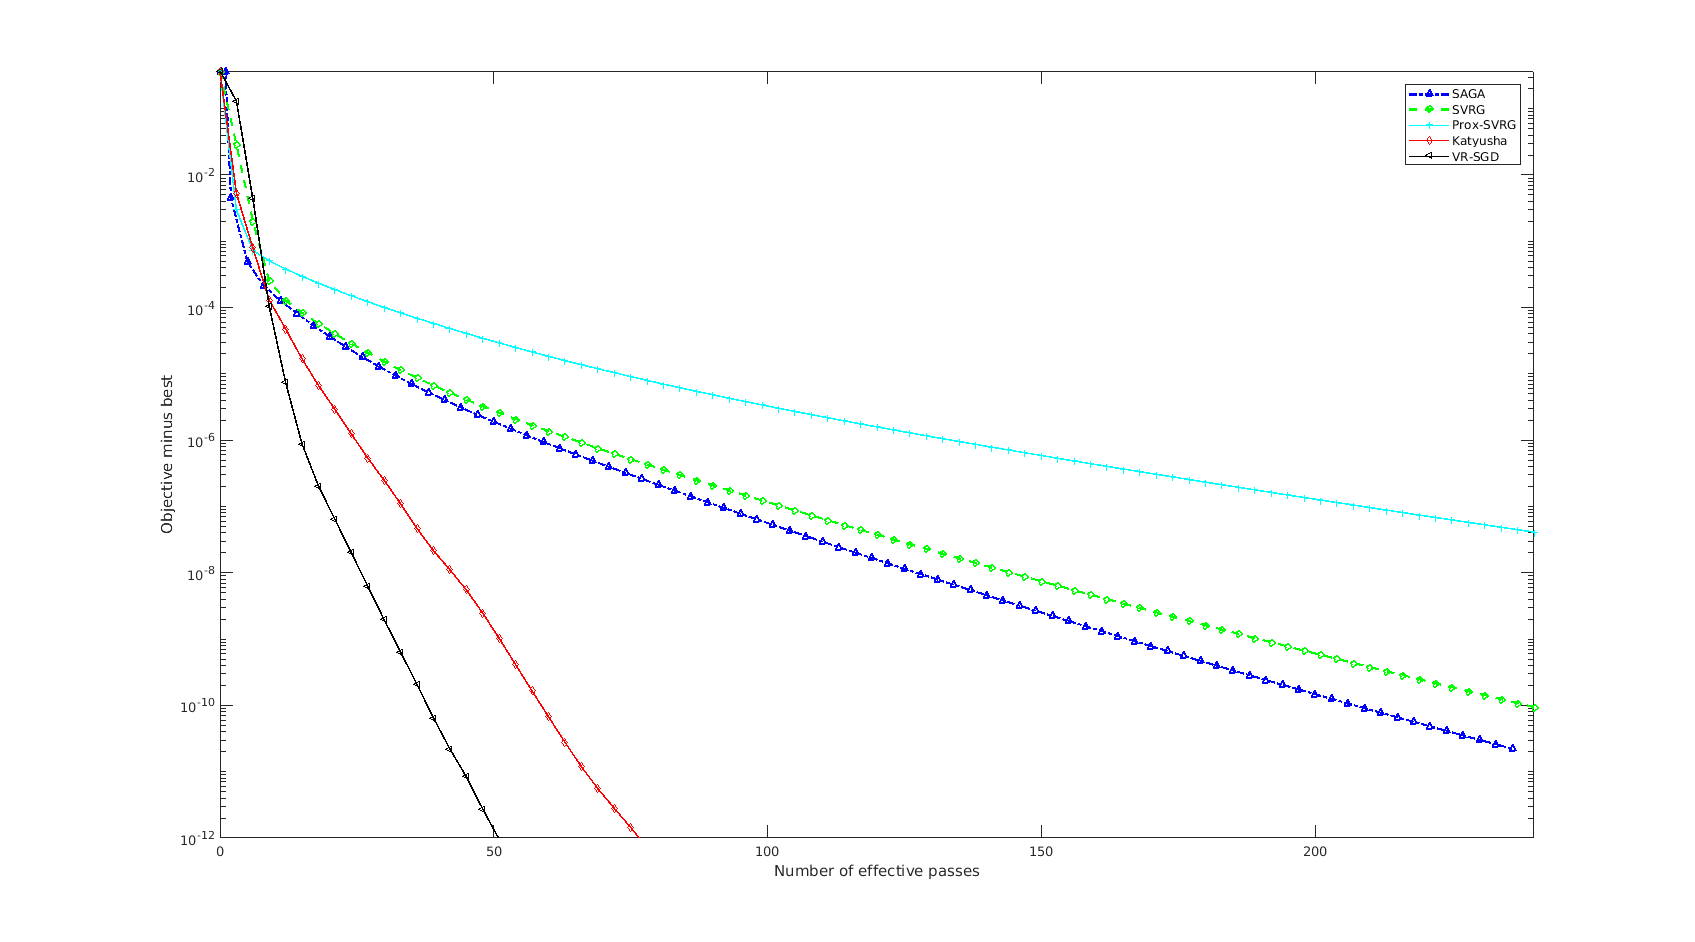
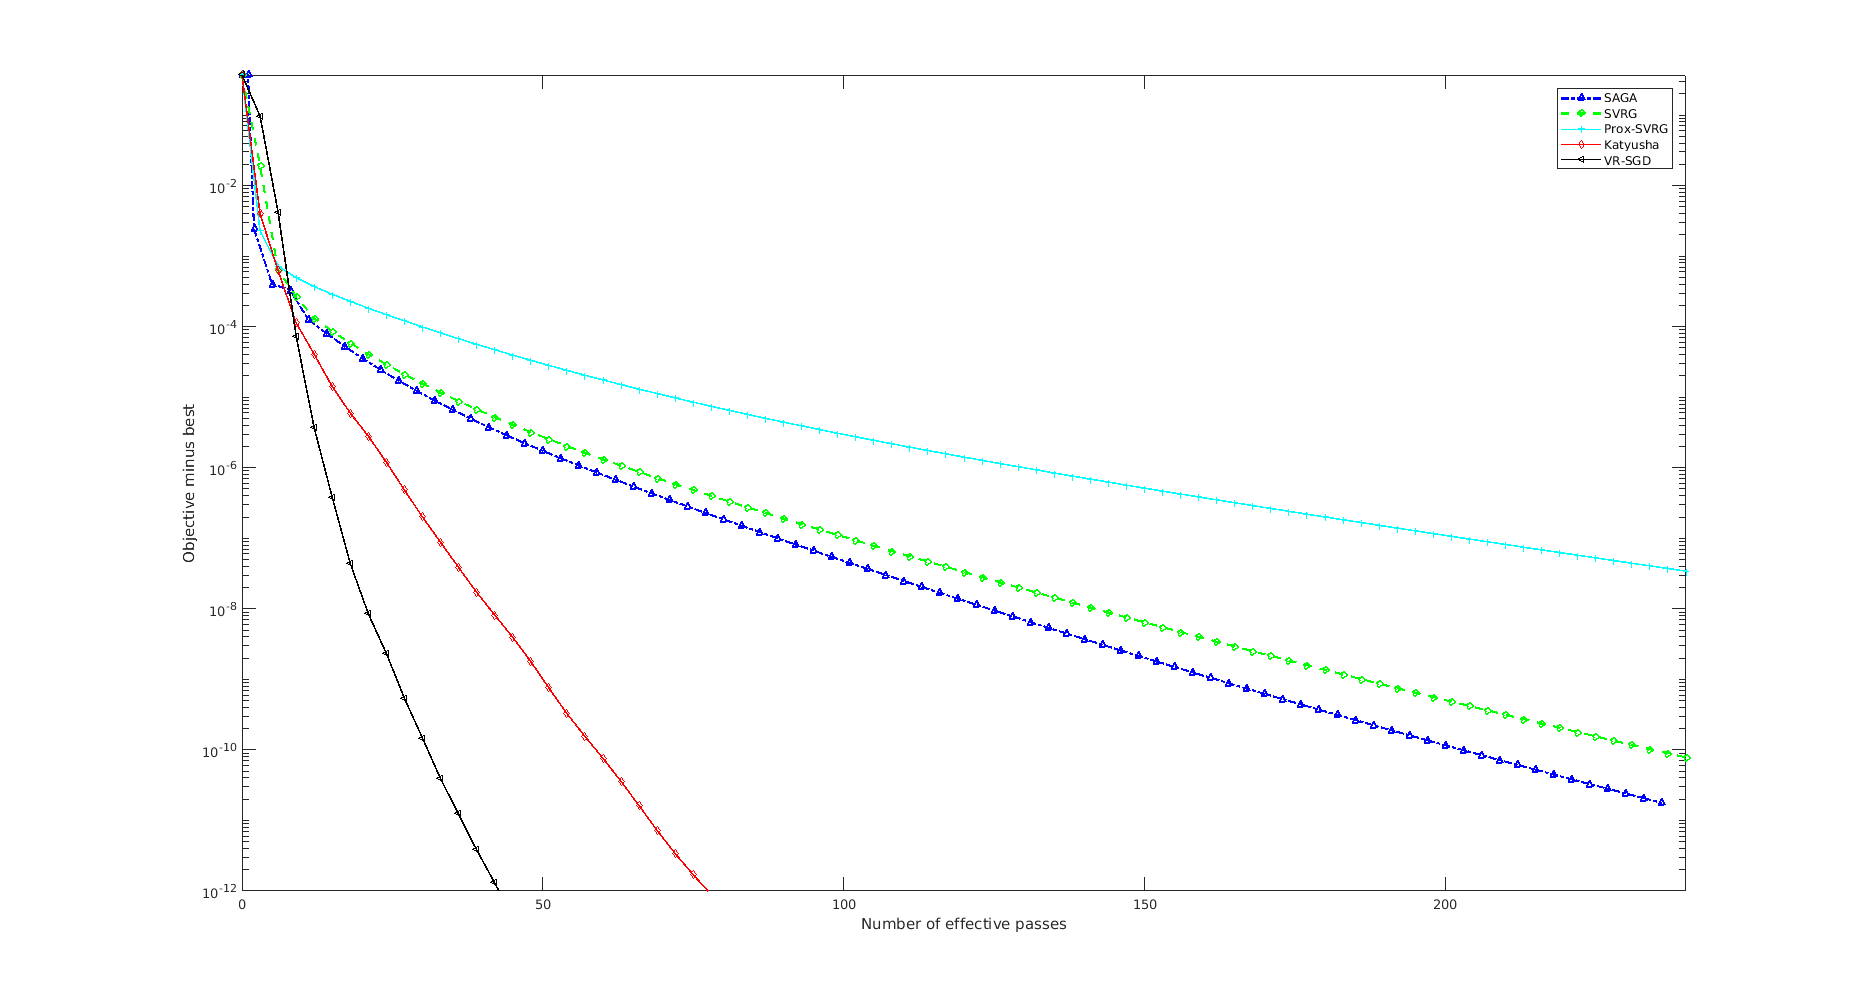
Fatal Bug Fixed.

diff --git a/grad_desc_sparse.cpp b/grad_desc_sparse.cpp
@@ -69,7 +69,6 @@ double* grad_desc_sparse::SGD(double* X, double* Y, size_t* Jc, size_t* Ir
     copy_vec(new_weights, model->get_model());
     for(size_t i = 0; i < iteration_no; i ++) {
         int rand_samp = distribution(generator);
-        double core = model->first_component_oracle_core_sparse(X, Y, Jc, Ir, N, rand_samp, new_weights);
         for(size_t j = Jc[rand_samp]; j < Jc[rand_samp + 1]; j ++) {
             size_t index = Ir[j];
             // lazy update.
@@ -77,6 +76,10 @@ double* grad_desc_sparse::SGD(double* X, double* Y, size_t* Jc, size_t* Ir
                 regularizer::proximal_operator(regular, new_weights[index], step_size, lambda
                     , i - (last_seen[index] + 1), false);
             }
+        }
+        double core = model->first_component_oracle_core_sparse(X, Y, Jc, Ir, N, rand_samp, new_weights);
+        for(size_t j = Jc[rand_samp]; j < Jc[rand_samp + 1]; j ++) {
+            size_t index = Ir[j];
             new_weights[index] -= step_size * core * X[j];
             regularizer::proximal_operator(regular, new_weights[index], step_size, lambda);
             last_seen[index] = i;
@@ -147,9 +150,6 @@ std::vector<double>* grad_desc_sparse::SAGA(double* X, double* Y, size_t* Jc, si
     size_t skip_pass = 0;
     for(size_t i = 0; i < iteration_no; i ++) {
         int rand_samp = distribution(generator);
-        double core = model->first_component_oracle_core_sparse(X, Y, Jc, Ir, N, rand_samp, new_weights);
-        double past_grad_core = grad_core_table[rand_samp];
-        grad_core_table[rand_samp] = core;
         for(size_t j = Jc[rand_samp]; j < Jc[rand_samp + 1]; j ++) {
             size_t index = Ir[j];
             // lazy update or lagged update in Schmidt et al.[2016]
@@ -157,6 +157,12 @@ std::vector<double>* grad_desc_sparse::SAGA(double* X, double* Y, size_t* Jc, si
                 regularizer::proximal_operator(regular, new_weights[index], step_size
                         , lambda, i - (last_seen[index] + 1), false, -step_size * aver_grad[index]);
             }
+        }
+        double core = model->first_component_oracle_core_sparse(X, Y, Jc, Ir, N, rand_samp, new_weights);
+        double past_grad_core = grad_core_table[rand_samp];
+        grad_core_table[rand_samp] = core;
+        for(size_t j = Jc[rand_samp]; j < Jc[rand_samp + 1]; j ++) {
+            size_t index = Ir[j];
             // Update Weight
             new_weights[index] -= step_size * ((core - past_grad_core)* X[j] + aver_grad[index]);
             // Update Gradient Table Average
@@ -252,11 +258,8 @@ std::vector<double>* grad_desc_sparse::Prox_SVRG(double* X, double* Y, size_t* J
         // INNER_LOOP
         for(size_t j = 0; j < inner_m; j ++) {
             int rand_samp = distribution(generator);
-            double inner_core = model->first_component_oracle_core_sparse(X, Y
-                        , Jc, Ir, N, rand_samp, inner_weights);
             for(size_t k = Jc[rand_samp]; k < Jc[rand_samp + 1]; k ++) {
                 size_t index = Ir[k];
-                double val = X[k];
                 // lazy update
                 if((int)j > last_seen[index] + 1) {
                     switch(Mode) {
@@ -274,6 +277,12 @@ std::vector<double>* grad_desc_sparse::Prox_SVRG(double* X, double* Y, size_t* J
                             break;
                     }
                 }
+            }
+            double inner_core = model->first_component_oracle_core_sparse(X, Y
+                                    , Jc, Ir, N, rand_samp, inner_weights);
+            for(size_t k = Jc[rand_samp]; k < Jc[rand_samp + 1]; k ++) {
+                size_t index = Ir[k];
+                double val = X[k];
                 double vr_sub_grad = (inner_core - full_grad_core[rand_samp]) * val + full_grad[index];
                 inner_weights[index] -= step_size * vr_sub_grad;
                 aver_weights[index] += regularizer::proximal_operator(regular, inner_weights[index]
@@ -391,11 +400,8 @@ std::vector<double>* grad_desc_sparse::SVRG(double* X, double* Y, size_t* Jc, si
             // INNER_LOOP
             for(size_t j = 0; j < inner_m ; j ++) {
                 int rand_samp = distribution(generator);
-                double inner_core = model->first_component_oracle_core_sparse(X, Y, Jc, Ir, N
-                    , rand_samp, inner_weights);
                 for(size_t k = Jc[rand_samp]; k < Jc[rand_samp + 1]; k ++) {
                     size_t index = Ir[k];
-                    double val = X[k];
                     // lazy update
                     if((int)j > last_seen[index] + 1) {
                         switch(Mode) {
@@ -414,6 +420,12 @@ std::vector<double>* grad_desc_sparse::SVRG(double* X, double* Y, size_t* Jc, si
                                 break;
                         }
                     }
+                }
+                double inner_core = model->first_component_oracle_core_sparse(X, Y, Jc, Ir, N
+                        , rand_samp, inner_weights);
+                for(size_t k = Jc[rand_samp]; k < Jc[rand_samp + 1]; k ++) {
+                    size_t index = Ir[k];
+                    double val = X[k];
                     double vr_sub_grad = (inner_core - full_grad_core[rand_samp]) * val
                              + inner_weights[index]* lambda[0] + full_grad[index];
                     inner_weights[index] -= step_size * vr_sub_grad;
@@ -949,10 +961,8 @@ std::vector<double>* grad_desc_sparse::Katyusha(double* X, double* Y, size_t* Jc
         // INNER LOOP
         for(size_t j = 0; j < m; j ++) {
             int rand_samp = distribution(generator);
-            double inner_core = model->first_component_oracle_core_sparse(X, Y, Jc, Ir, N, rand_samp, inner_weights);
             for(size_t k = Jc[rand_samp]; k < Jc[rand_samp + 1]; k ++) {
                 size_t index = Ir[k];
-                double val = X[k];
                 // lazy update
                 if((int)j > last_seen[index] + 1) {
                     ////// For Katyusha With Update Option I //////
@@ -982,6 +992,11 @@ std::vector<double>* grad_desc_sparse::Katyusha(double* X, double* Y, size_t* Jc
                     inner_weights[index] = tau_1 * z[index] + tau_2 * outter_weights[index]
                                      + (1 - tau_1 - tau_2) * y[index];
                 }
+            }
+            double inner_core = model->first_component_oracle_core_sparse(X, Y, Jc, Ir, N, rand_samp, inner_weights);
+            for(size_t k = Jc[rand_samp]; k < Jc[rand_samp + 1]; k ++) {
+                size_t index = Ir[k];
+                double val = X[k];
                 double katyusha_grad = full_grad[index] + val * (inner_core - full_grad_core[rand_samp]);
                 double prev_z = z[index];
                 z[index] -= alpha * katyusha_grad;

diff --git a/least_square.cpp b/least_square.cpp
@@ -27,7 +27,7 @@ double least_square::zero_component_oracle_dense(double* X, double* Y, size_t N,
         }
         _F += (_inner_xw - Y[i]) * (_inner_xw - Y[i]);
     }
-    _F /= (double) N;
+    _F /= (double)2.0 * N;
     return _F;
 }
 
@@ -42,7 +42,7 @@ double least_square::zero_component_oracle_sparse(double* X, double* Y, size_t* 
         }
         _F += (_inner_xw - Y[i]) * (_inner_xw - Y[i]);
     }
-    _F /= (double) N;
+    _F /= (double)2.0 * N;
     return _F;
 }
 
@@ -53,7 +53,7 @@ double least_square::first_component_oracle_core_dense(double* X, double* Y, siz
         _inner_xw += weights[j] * X[given_index * MAX_DIM + j];
     }
     _loss = _inner_xw - Y[given_index];
-    return 2.0 * _loss;
+    return _loss;
 }
 
 double least_square::first_component_oracle_core_sparse(double* X, double* Y, size_t* Jc, size_t* Ir
@@ -64,7 +64,7 @@ double least_square::first_component_oracle_core_sparse(double* X, double* Y, si
         _inner_xw += weights[Ir[j]] * X[j];
     }
     _loss = _inner_xw - Y[given_index];
-    return 2.0 * _loss;
+    return _loss;
 }
 
 int least_square::classify(double* sample) const{

diff --git a/README.md b/README.md
@@ -44,12 +44,12 @@ result = Interface(X, y, algorithm, model, regularizer, init_weight, lambda1, L,
 ```
 
 ## Demo
-One can run `matlab_test` in the MATLAB terminal, a small demo using Adults dataset from [LIBSVM Data](https://www.csie.ntu.edu.tw/~cjlin/libsvmtools/datasets/) to generate a plot shown as below.
+One can run `demo` in the MATLAB terminal, a small demo using Adults(a9a) dataset from [LIBSVM Data](https://www.csie.ntu.edu.tw/~cjlin/libsvmtools/datasets/), to generate a plot shown as below.
 
 Test environment is MATLAB R2017a with GCC-4.9, Ubuntu 16.04 LTS.
 
 ```bash
->> matlab_test
+>> demo
 Model: L2-logistic
 Algorithm: SAGA
 Time: 3.919867 seconds
